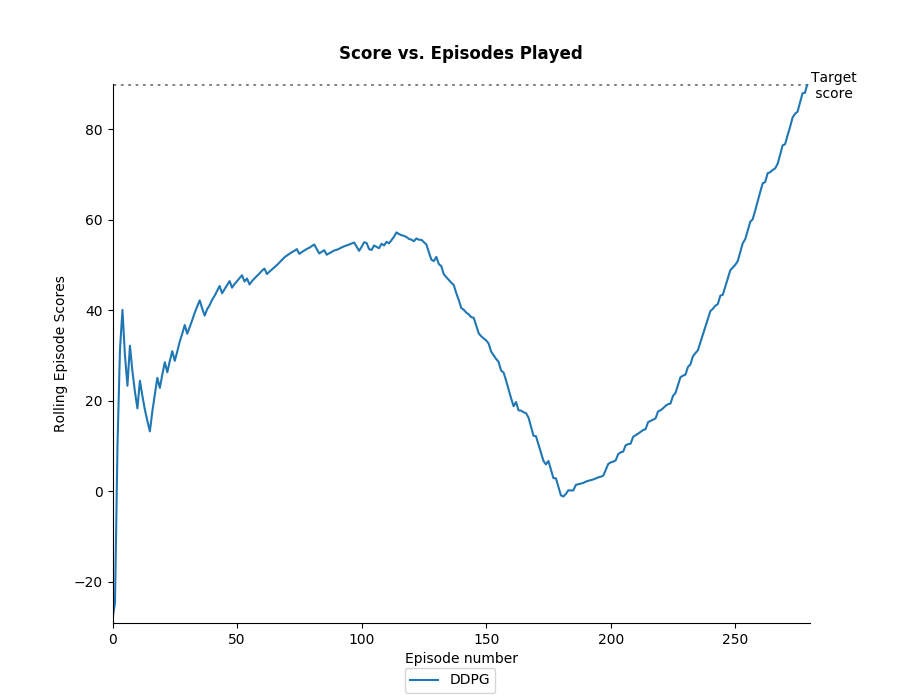
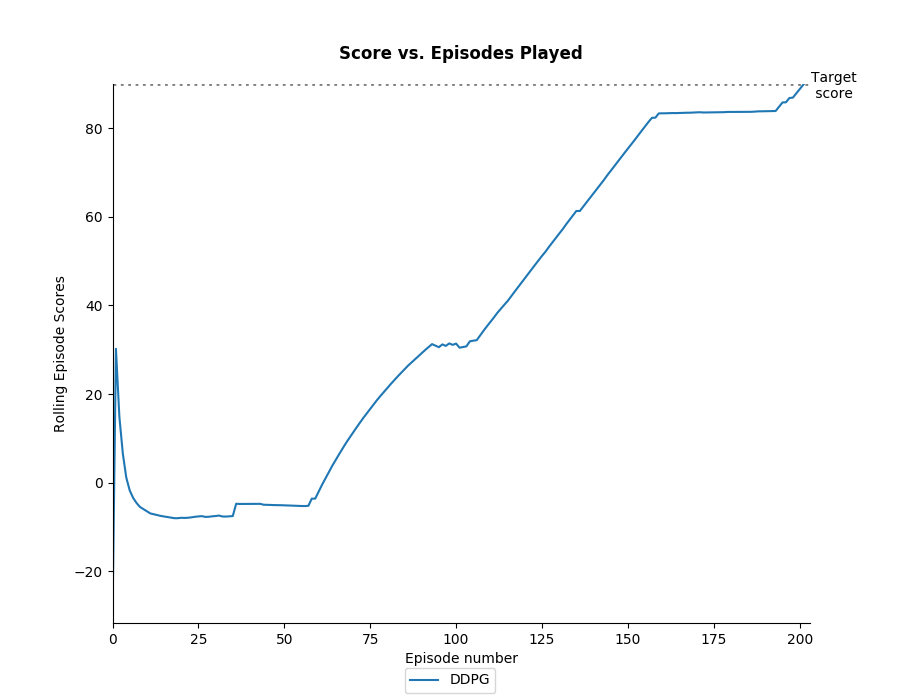
added repo structure to README

diff --git a/Results/Mountain_Car_Continuous/Results.py b/Results/Mountain_Car_Continuous/Results.py
@@ -32,8 +32,8 @@ config.hyperparameters = {
     "Actor_Critic_Agents": {
         "Actor": {
             "learning_rate": 0.0001,
-            "nn_layers": 2,
-            "nn_start_units": 20,
+            "nn_layers": 5,
+            "nn_start_units": 50,
             "nn_unit_decay": 1.0,
             "final_layer_activation": "TANH",
             "batch_norm": False,
@@ -43,8 +43,8 @@ config.hyperparameters = {
 
         "Critic": {
             "learning_rate": 0.001,
-            "nn_layers": 3,
-            "nn_start_units": 20,
+            "nn_layers": 6,
+            "nn_start_units": 50,
             "nn_unit_decay": 1.0,
             "final_layer_activation": None,
             "batch_norm": False,

diff --git a/Agents/Policy_Gradient_Agents/REINFORCE_Agent.py b/Agents/Policy_Gradient_Agents/REINFORCE_Agent.py
@@ -3,7 +3,7 @@ import torch
 from torch.distributions import Categorical
 import torch.optim as optim
 from Agents.Base_Agent import Base_Agent
-from Models.Neural_Network import Neural_Network
+from Neural_Network import Neural_Network
 
 
 class REINFORCE_Agent(Base_Agent):

diff --git a/Agents/DQN_Agents/DQN_Agent.py b/Agents/DQN_Agents/DQN_Agent.py
@@ -1,5 +1,5 @@
 from Agents.Base_Agent import Base_Agent
-from Models.Neural_Network import Neural_Network
+from Neural_Network import Neural_Network
 from Utilities.Data_Structures.Replay_Buffer import Replay_Buffer
 import torch
 import torch.optim as optim

diff --git a/Agents/Stochastic_Policy_Search_Agents/Genetic_Agent.py b/Agents/Stochastic_Policy_Search_Agents/Genetic_Agent.py
@@ -4,7 +4,7 @@ import random
 import numpy as np
 
 from Agents.Base_Agent import Base_Agent
-from Models.Linear_Model import Linear_Model
+from Linear_Model import Linear_Model
 
 class Genetic_Agent(Base_Agent):
     agent_name = "Genetic_Agent"

diff --git a/Agents/Stochastic_Policy_Search_Agents/Hill_Climbing_Agent.py b/Agents/Stochastic_Policy_Search_Agents/Hill_Climbing_Agent.py
@@ -1,7 +1,7 @@
 import numpy as np
 
 from Agents.Base_Agent import Base_Agent
-from Models.Linear_Model import Linear_Model
+from Linear_Model import Linear_Model
 
 class Hill_Climbing_Agent(Base_Agent):
     agent_name = "Hill Climbing"

diff --git a/Agents/DQN_Agents/DQN_Agent_With_Fixed_Q_Targets.py b/Agents/DQN_Agents/DQN_Agent_With_Fixed_Q_Targets.py
@@ -1,4 +1,4 @@
-from Models.Neural_Network import Neural_Network
+from Neural_Network import Neural_Network
 from Agents.DQN_Agents.DQN_Agent import DQN_Agent
 
 

diff --git a/README.md b/README.md
@@ -70,7 +70,28 @@ found in the paper and show that adding HER allowed the agent to solve a problem
 
 ### Usage ###
 
-The algorithms are found in the Agent folder. 
+The repository's high-level structure is:
+ 
+    ├── Agents                    
+        ├── Actor_Critic_Agents   
+        ├── DQN_Agents         
+        ├── Policy_Gradient_Agents
+        └── Stochastic_Policy_Search_Agents 
+    ├── Environments
+        ├── Open_AI_Gym_Environments   
+        ├── Other_Environments         
+        └── Unity_Environments    
+    ├── Results
+        ├── Bit_Flipping_Environment   
+        ├── Cart_Pole
+        ├── Fetch_Reach
+        ├── Mountain_Car_Continuous             
+        └── Tennis        
+    ├── Tests
+    ├── Utilities
+        ├── Data_Structures             
+        └── Models            
+   
 
 #### i) To Watch the Agents Learn the Above Games  
 
